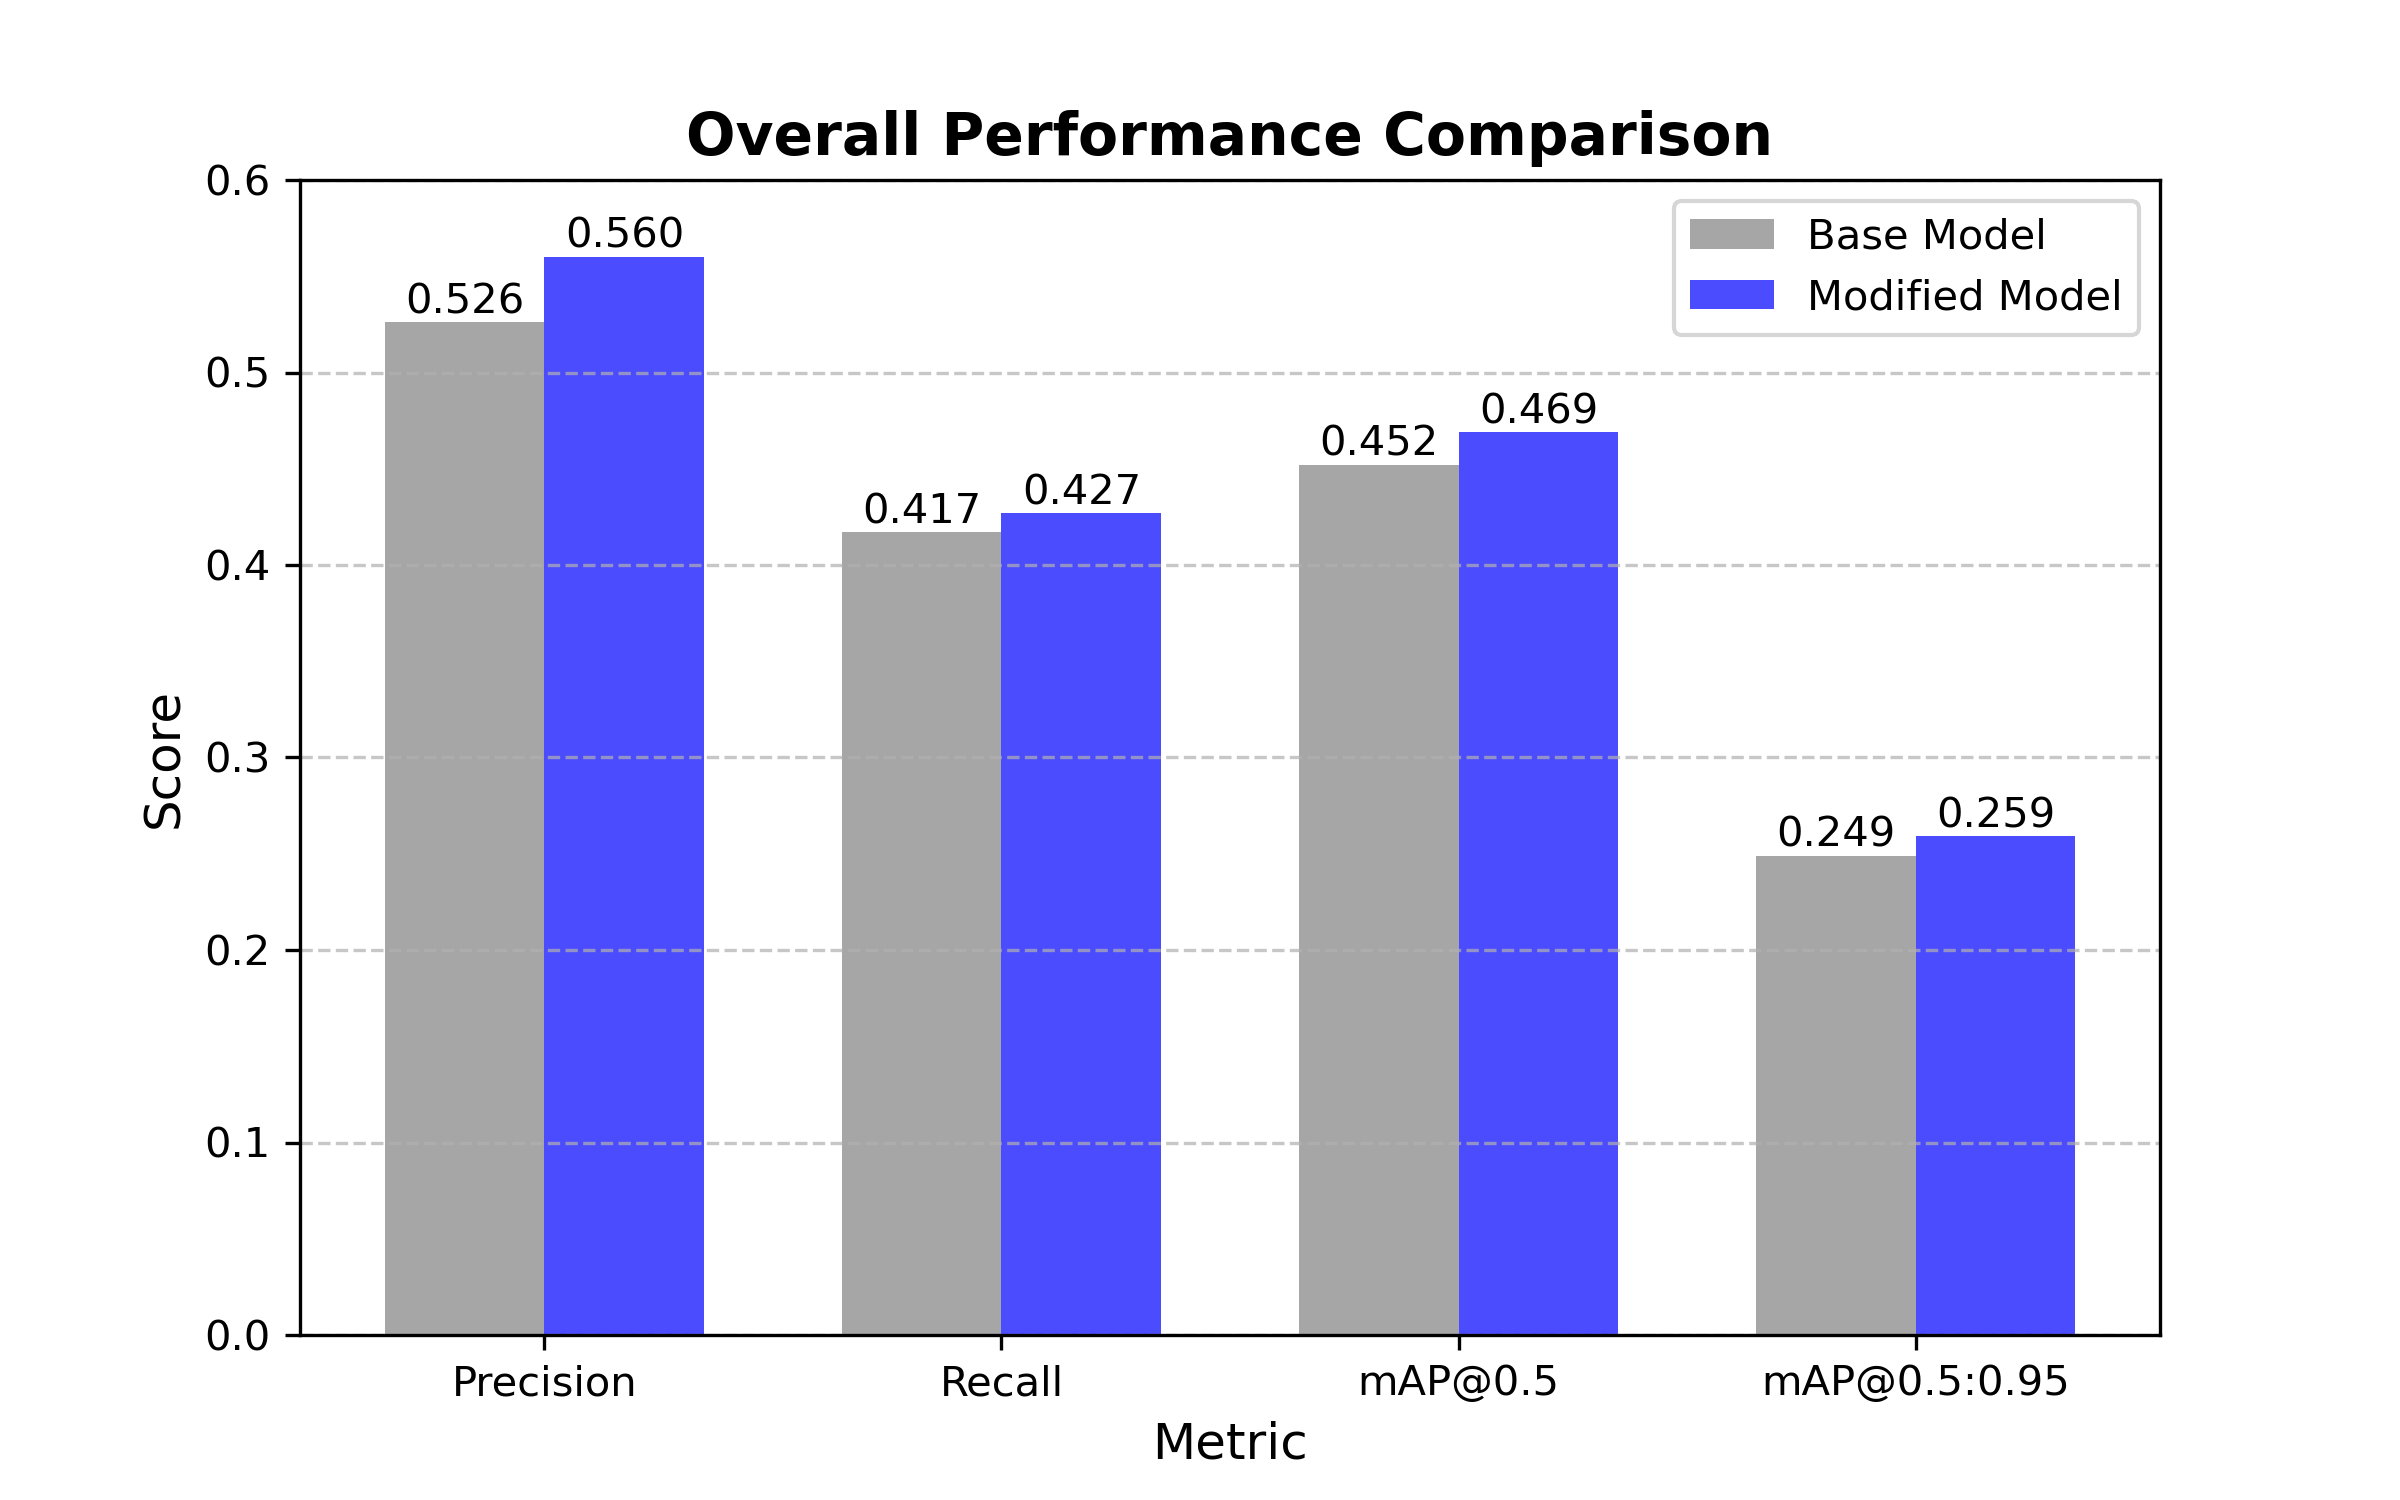
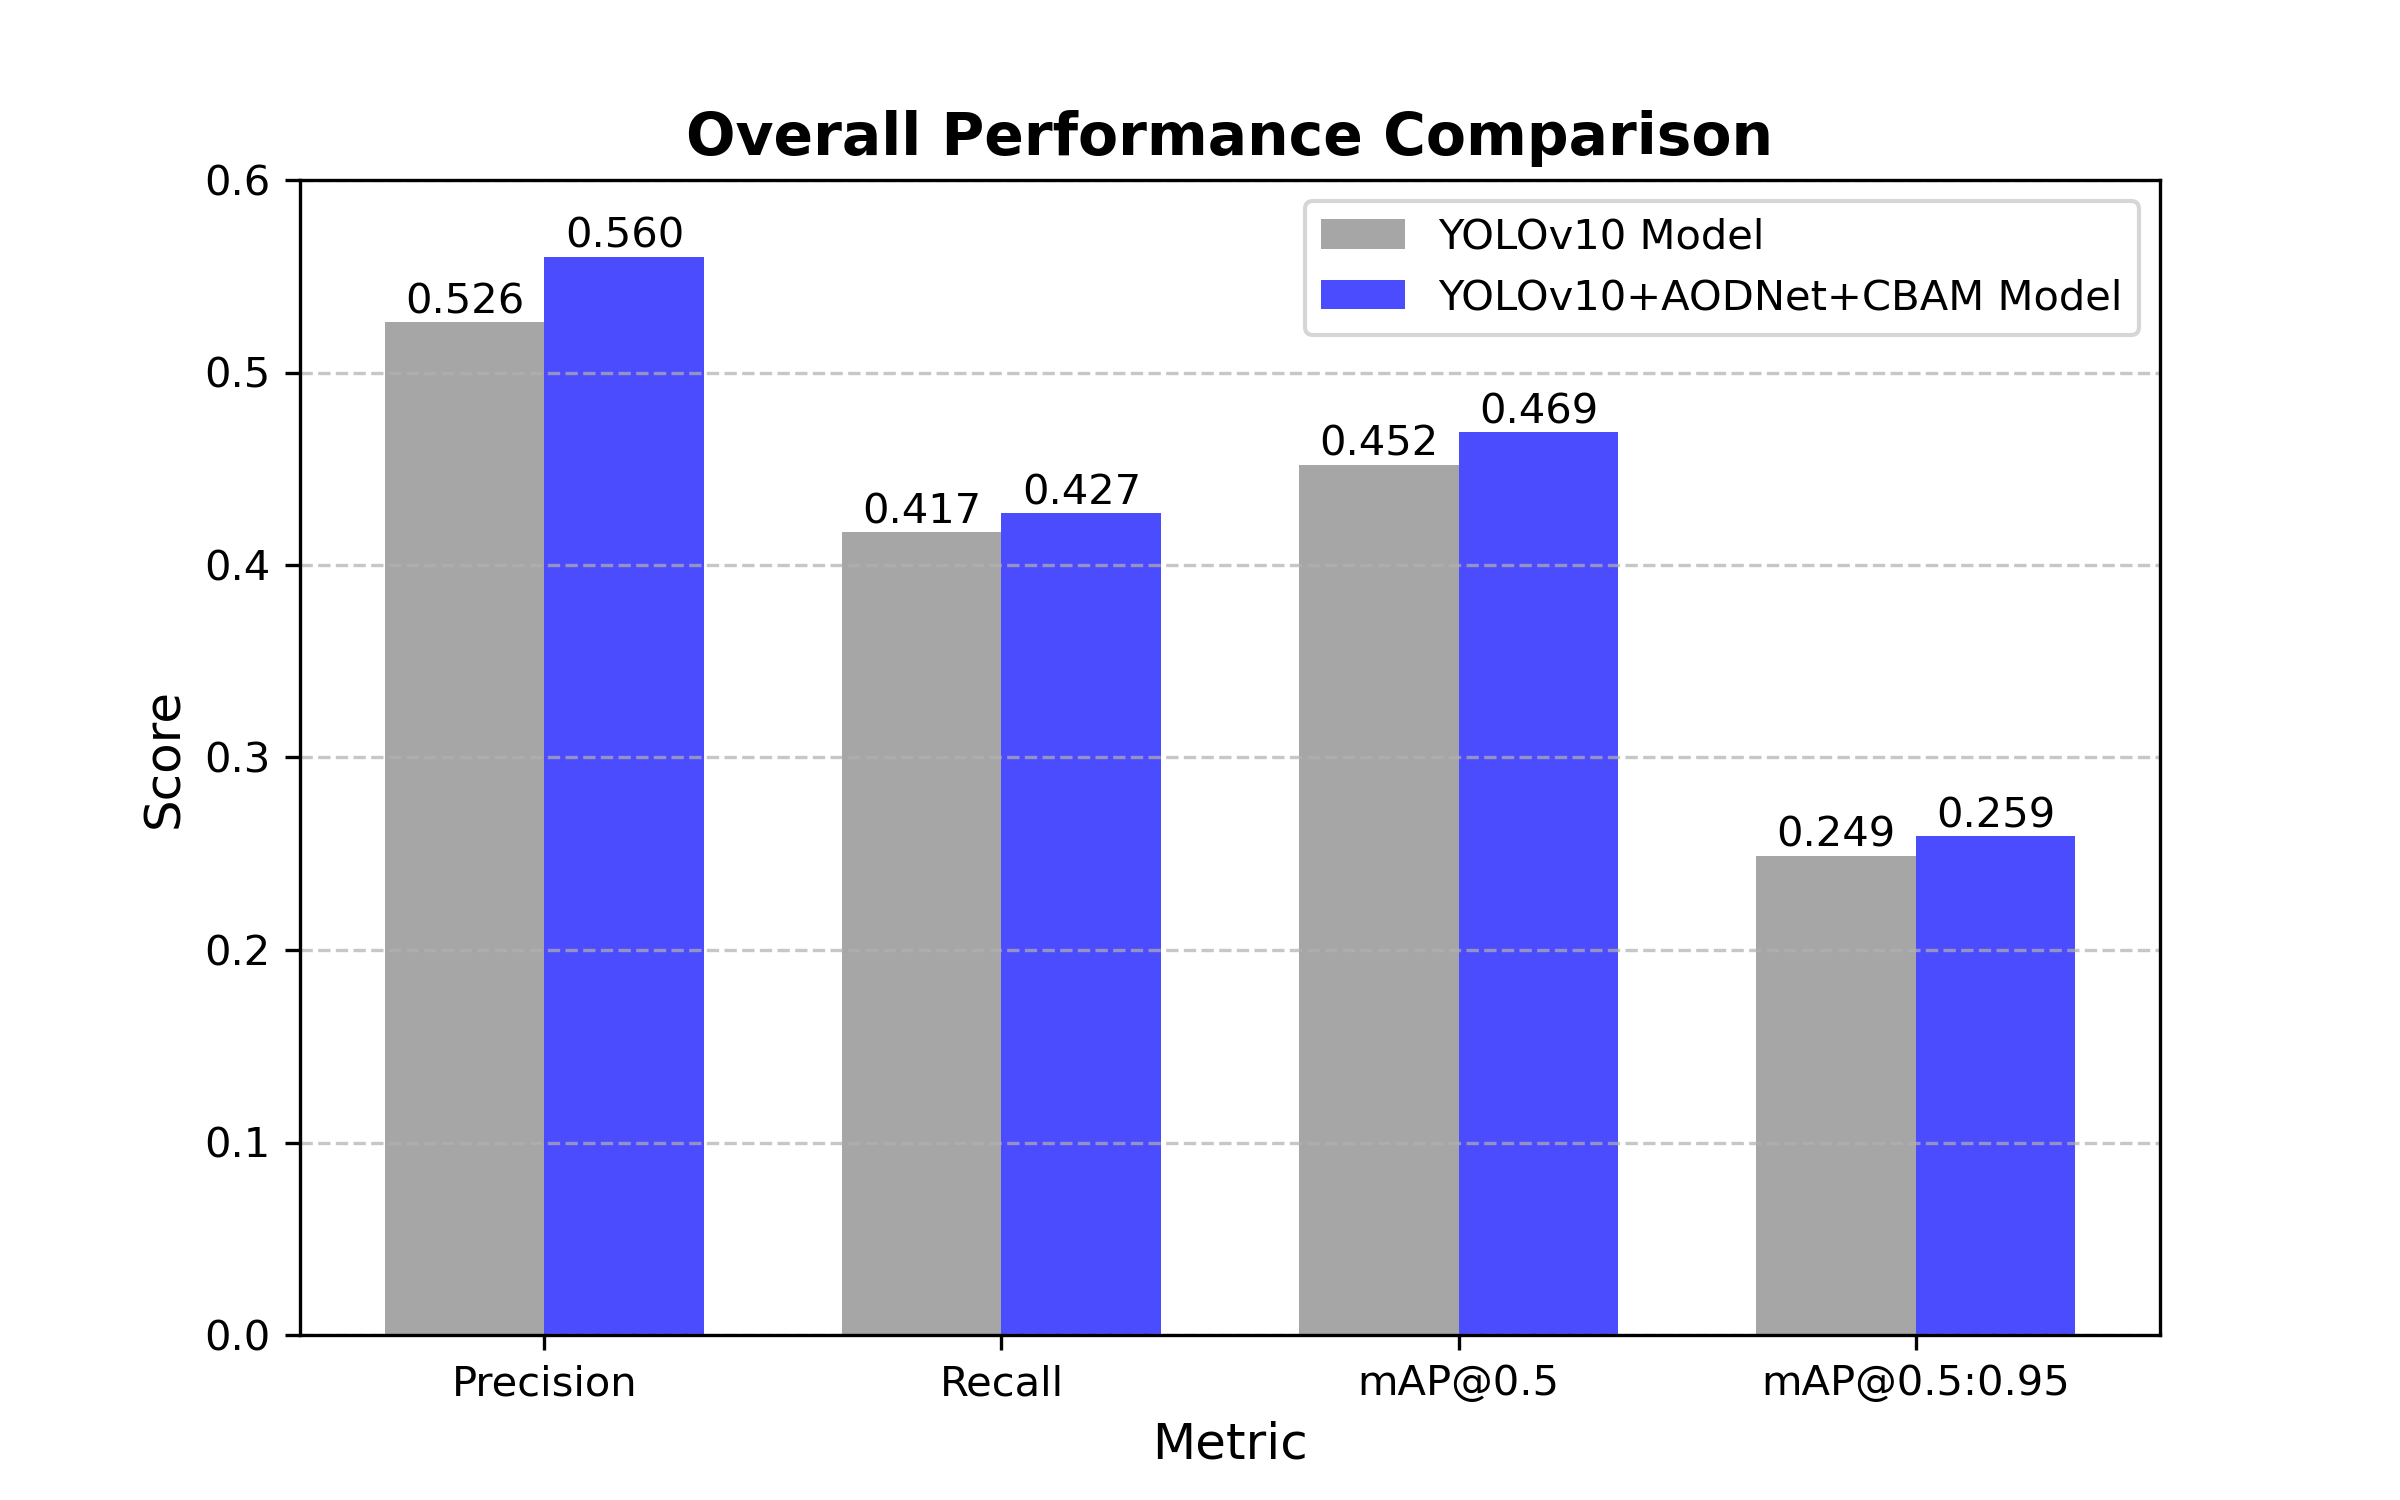
Update pictures of comparison

Changed region(s): [[0.5312, 0.1227, 0.8438, 0.2147]]

diff --git a/draw_CategoryComparison.py b/draw_CategoryComparison.py
@@ -33,7 +33,7 @@ modified_data = [precision_modified, recall_modified, map50_modified, map5095_mo
 
 for i, ax in enumerate(axes.flat):
     for j, category in enumerate(categories):
-        ax.bar(x[j] - width/2, base_data[i][j], width, color=base_color, alpha=0.7, label="Base Model" if j == 0 else None)
+        ax.bar(x[j] - width/2, base_data[i][j], width, color=base_color, alpha=0.7, label="YOLOv10 Model" if j == 0 else None)
         ax.bar(x[j] + width/2, modified_data[i][j], width, color=modified_colors[j], alpha=0.9, label=category if i == 0 else None)
 
     ax.set_title(metrics[i], fontsize=12, fontweight="bold")
@@ -43,10 +43,10 @@ for i, ax in enumerate(axes.flat):
     ax.grid(axis="y", linestyle="--", alpha=0.6)
 
 # **在外部手动创建图例**
-handles = [plt.Rectangle((0,0),1,1, color=base_color, alpha=0.7, label="Base Model")] + \
+handles = [plt.Rectangle((0,0),1,1, color=base_color, alpha=0.7, label="YOLOv10 Model")] + \
           [plt.Rectangle((0,0),1,1, color=modified_colors[i], alpha=0.9, label=categories[i]) for i in range(len(categories))]
 
-fig.legend(handles, ["Base Model"] + categories, loc="lower center", ncol=6, fontsize=10)
+fig.legend(handles, ["YOLOv10 Model"] + categories, loc="lower center", ncol=6, fontsize=10)
 
 # 调整布局
 plt.suptitle("Performance Comparison Across Categories", fontsize=14, fontweight="bold", color="black")

diff --git a/draw_OverallComparison.py b/draw_OverallComparison.py
@@ -17,8 +17,8 @@ width = 0.35  # 柱子的宽度
 
 # 画图
 fig, ax = plt.subplots(figsize=(8, 5))
-bars1 = ax.bar(x - width/2, base_model, width, label="Base Model", color='gray', alpha=0.7)
-bars2 = ax.bar(x + width/2, modified_model, width, label="Modified Model", color='blue', alpha=0.7)
+bars1 = ax.bar(x - width/2, base_model, width, label="YOLOv10 Model", color='gray', alpha=0.7)
+bars2 = ax.bar(x + width/2, modified_model, width, label="YOLOv10+AODNet+CBAM Model", color='blue', alpha=0.7)
 
 # 显示提升数值
 for bars in [bars1, bars2]:
